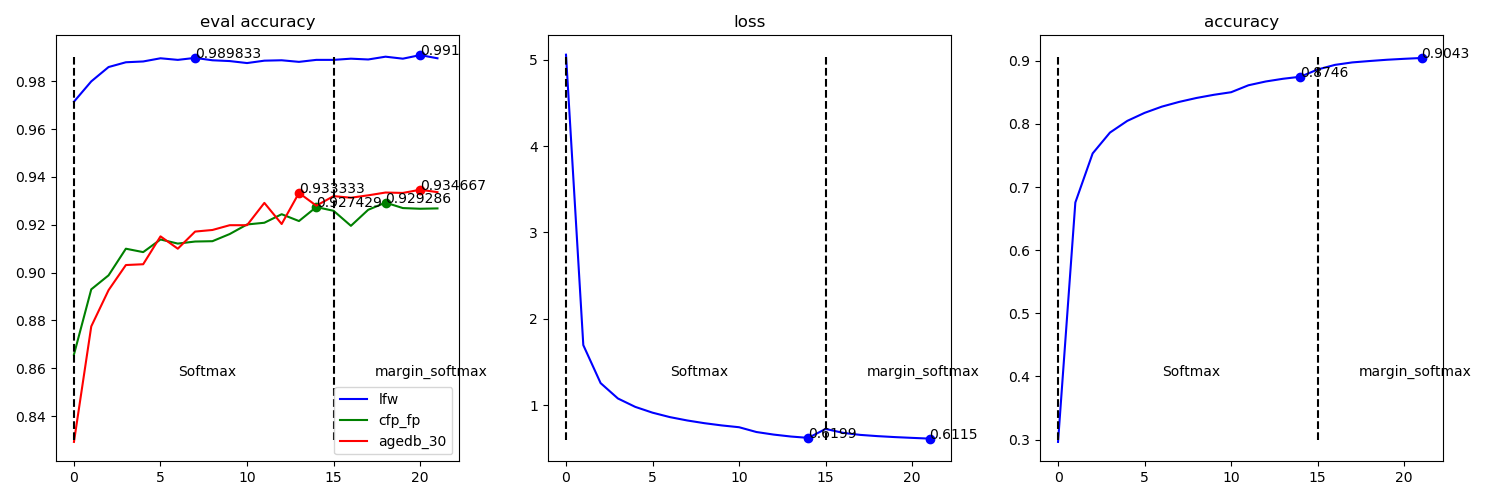
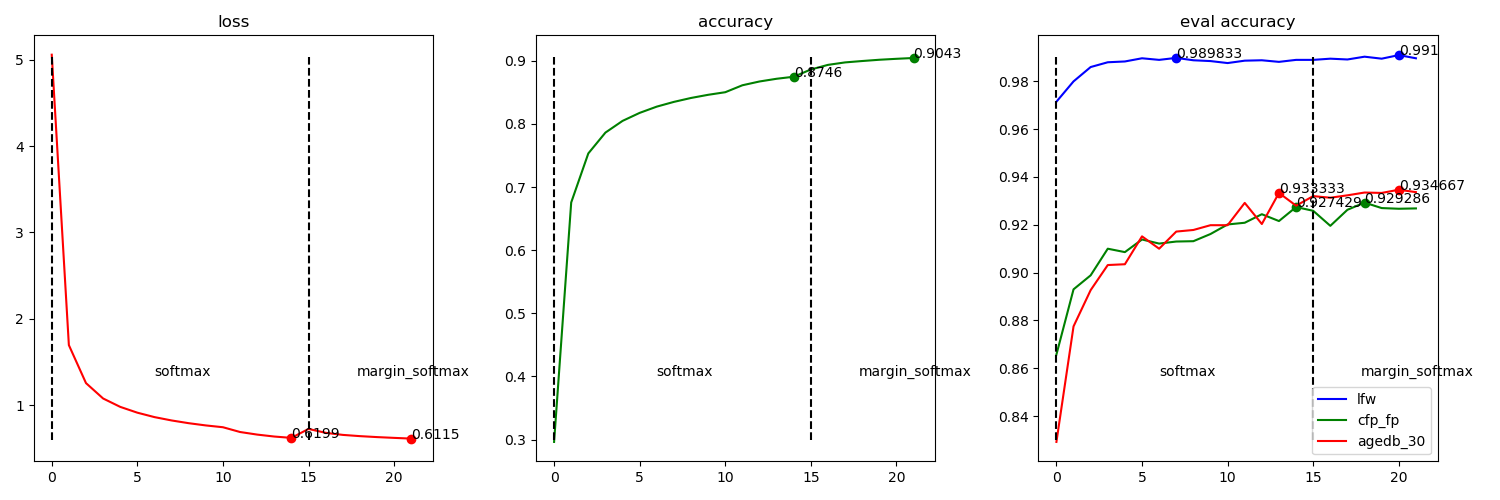
Update for README.md

diff --git a/README.md b/README.md
@@ -186,70 +186,78 @@
 | center batch_hard_triplet_loss |         |          |          |            |          |               |          |                 |            |          |
 
 ## Mobilefacenet
-```py
-'''
->>>> Softmax 15
-Epoch 1/15
-36392/36392 [==============================] - 12820s 352ms/step - loss: 5.0583 - accuracy: 0.2964
-'''
-lfw = [0.971500,0.980000,0.986000,0.988000,0.988333,0.989667,0.989000,0.989833,0.988833,0.988500,0.987667,0.988667,0.988833,0.988167,0.989000,]
-cfp_fp = [0.865714,0.893000,0.898857,0.910000,0.908571,0.913857,0.912143,0.913000,0.913143,0.916143,0.920143,0.920857,0.924429,0.921571,0.927429,]
-agedb_30 = [0.829167,0.877500,0.892667,0.903167,0.903500,0.915167,0.910000,0.917167,0.917833,0.919833,0.919833,0.929167,0.920333,0.933333,0.928000,]
-loss = [5.0583, 1.6944, 1.2544, 1.0762, 0.9791, 0.9118, 0.8605, 0.8217, 0.7900, 0.7641, 0.7432, 0.6879, 0.6580, 0.6354, 0.6199,]
-accuracy = [0.2964, 0.6755, 0.7532, 0.7862, 0.8047, 0.8174, 0.8273, 0.8348, 0.8410, 0.8460, 0.8501, 0.8611, 0.8671, 0.8714, 0.8746,]
+  - Training script is the last exampled one.
+  ```py
+  '''
+  >>>> Softmax 15
+  Epoch 1/15
+  36392/36392 [==============================] - 12820s 352ms/step - loss: 5.0583 - accuracy: 0.2964
+  '''
+  lfw = [0.971500,0.980000,0.986000,0.988000,0.988333,0.989667,0.989000,0.989833,0.988833,0.988500,0.987667,0.988667,0.988833,0.988167,0.989000,]
+  cfp_fp = [0.865714,0.893000,0.898857,0.910000,0.908571,0.913857,0.912143,0.913000,0.913143,0.916143,0.920143,0.920857,0.924429,0.921571,0.927429,]
+  agedb_30 = [0.829167,0.877500,0.892667,0.903167,0.903500,0.915167,0.910000,0.917167,0.917833,0.919833,0.919833,0.929167,0.920333,0.933333,0.928000,]
+  loss = [5.0583, 1.6944, 1.2544, 1.0762, 0.9791, 0.9118, 0.8605, 0.8217, 0.7900, 0.7641, 0.7432, 0.6879, 0.6580, 0.6354, 0.6199,]
+  accuracy = [0.2964, 0.6755, 0.7532, 0.7862, 0.8047, 0.8174, 0.8273, 0.8348, 0.8410, 0.8460, 0.8501, 0.8611, 0.8671, 0.8714, 0.8746,]
 
-'''
->>>> margin_softmax 10
-Epoch 16/25
-36392/36392 [==============================] - 12623s 347ms/step - loss: 0.7236 - accuracy: 0.8861
-'''
-lfw_2 = [0.989000,0.989500,0.989167,0.990333,0.989500,0.991000,0.989667,]
-cfp_fp_2 = [0.925857,0.919571,0.926286,0.929286,0.927000,0.926714,0.926857,]
-agedb_30_2 = [0.932000,0.931333,0.932333,0.933500,0.933333,0.934667,0.933667,]
-loss_2 = [0.7236,0.6785, 0.6545, 0.6401, 0.6290, 0.6199, 0.6115, ]
-accuracy_2 = [0.8861,0.8934, 0.8973, 0.8995, 0.9015, 0.9030, 0.9043, ]
+  '''
+  >>>> margin_softmax 10
+  Epoch 16/25
+  36392/36392 [==============================] - 12623s 347ms/step - loss: 0.7236 - accuracy: 0.8861
+  '''
+  lfw_2 = [0.989000,0.989500,0.989167,0.990333,0.989500,0.991000,0.989667,]
+  cfp_fp_2 = [0.925857,0.919571,0.926286,0.929286,0.927000,0.926714,0.926857,]
+  agedb_30_2 = [0.932000,0.931333,0.932333,0.933500,0.933333,0.934667,0.933667,]
+  loss_2 = [0.7236,0.6785, 0.6545, 0.6401, 0.6290, 0.6199, 0.6115, ]
+  accuracy_2 = [0.8861,0.8934, 0.8973, 0.8995, 0.9015, 0.9030, 0.9043, ]
 
-def peak_scatter(ax, array, splits, peak_method, color):
-  for nn, ss in splits.items():
-    if ss[1] == -1:
-      pp = peak_method(array[ss[0]:])
-    else:
-      pp = peak_method(array[ss[0]:ss[1]])
-    ax.scatter(pp + ss[0], array[pp + ss[0]], color=color)
-    ax.text(pp + ss[0], array[pp + ss[0]], str(array[pp + ss[0]]))
+  def peak_scatter(ax, array, peak_method, color):
+    start = 0
+    for ii in array:
+      pp = peak_method(ii)
+      ax.scatter(pp + start, ii[pp], color=color)
+      ax.text(pp + start, ii[pp], str(ii[pp]))
+      start += len(ii)
 
-def add_plot(lfw, cfp_fp, agedb_30, loss, accuracy, splits, fig=None, axes=None):
-  if fig == None:
-    fig, axes = plt.subplots(1, 3, sharex=True, figsize=(15, 5))
+  def add_plot(lfws, cfp_fps, agedb_30s, losses, accuracies, names, fig=None, axes=None):
+    if fig == None:
+      fig, axes = plt.subplots(1, 3, sharex=True, figsize=(15, 5))
 
-  xx = np.arange(len(loss))
-  for ss, aa, cc in zip(['lfw', 'cfp_fp', 'agedb_30'], [lfw, cfp_fp, agedb_30], ["b", "g", "r"]):
-    axes[0].plot(xx, aa, label=ss, color=cc)
-    peak_scatter(axes[0], aa, splits, np.argmax, cc)
-  axes[0].set_title('eval accuracy')
-  axes[0].legend()
+    tt = []
+    for ii in losses: tt += ii
+    xx = np.arange(len(tt))
+    axes[0].plot(xx, tt, color="y")
+    peak_scatter(axes[0], losses, np.argmin, "y")
+    axes[0].set_title('loss')
 
-  axes[1].plot(xx, loss, color="b")
-  peak_scatter(axes[1], loss, splits, np.argmin, "b")
-  axes[1].set_title('loss')
+    tt = []
+    for ii in accuracies: tt += ii
+    axes[1].plot(xx, tt, color="g")
+    peak_scatter(axes[1], accuracies, np.argmax, "g")
+    axes[1].set_title('accuracy')
 
-  axes[2].plot(xx, accuracy, color="b")
-  peak_scatter(axes[2], accuracy, splits, np.argmax, "b")
-  axes[2].set_title('accuracy')
+    for ss, aa, cc in zip(['lfw', 'cfp_fp', 'agedb_30'], [lfws, cfp_fps, agedb_30s], ["b", "g", "r"]):
+      tt = []
+      for ii in aa: tt += ii
+      axes[2].plot(xx, tt, label=ss, color=cc)
+      peak_scatter(axes[2], aa, np.argmax, cc)
+    axes[2].set_title('eval accuracy')
+    axes[2].legend(loc='lower right')
 
-  for ax in axes:
-    ymin, ymax = ax.get_ylim()
-    mm = (ymax - ymin) * 0.05
-    for nn, ss in splits.items():
-      ax.plot([xx[ss[0]], xx[ss[0]]], [ymin + mm, ymax - mm], color='k', linestyle='--')
-      # ax.text(xx[ss[0]], np.mean(ax.get_ylim()), nn)
-      ax.text(ss[0] + len(xx[ss[0]:ss[1]]) * 0.4, ymin + mm * 4, nn)
+    for ax in axes:
+      ymin, ymax = ax.get_ylim()
+      mm = (ymax - ymin) * 0.05
+      start = 0
+      for nn, loss in zip(names, losses):
+        ax.plot([xx[start], xx[start]], [ymin + mm, ymax - mm], color='k', linestyle='--')
+        # ax.text(xx[ss[0]], np.mean(ax.get_ylim()), nn)
+        ax.text(start + len(loss) * 0.4, ymin + mm * 4, nn)
+        start += len(loss)
 
-  fig.tight_layout()
+    fig.tight_layout()
 
-add_plot(lfw + lfw_2, cfp_fp + cfp_fp_2, agedb_30 + agedb_30_2, loss + loss_2, accuracy + accuracy_2, {"Softmax": [0, 15], "margin_softmax": [15, -1]})
-```
-![](mobilefacenet_loss_acc.png)
+  add_plot([lfw, lfw_2], [cfp_fp, cfp_fp_2], [agedb_30, agedb_30_2], [loss, loss_2], [accuracy, accuracy_2], ["softmax", "margin_softmax"])
+  ```
+  ![](mobilefacenet_loss_acc.png)
 ***
 
 # Related Projects
